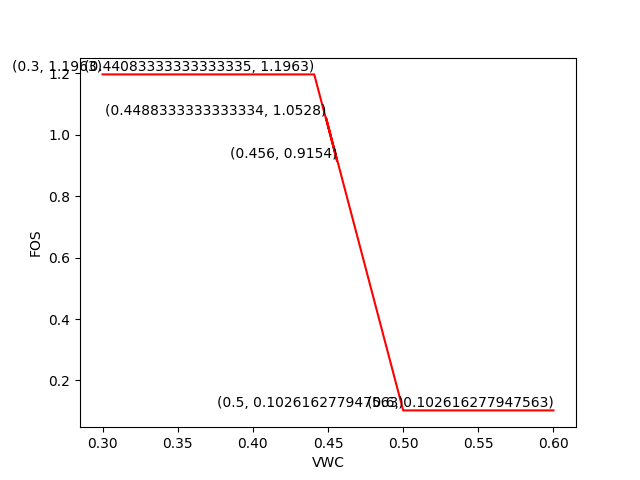
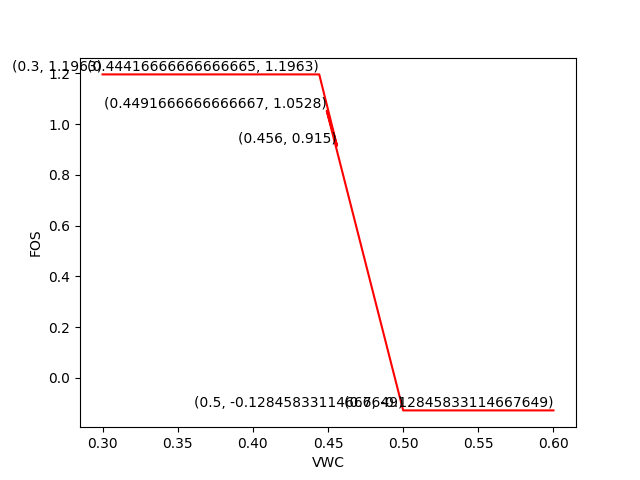
sadgfsa

diff --git a/main_UI.py b/main_UI.py
@@ -79,7 +79,7 @@ class Ui_MainWindow(object):
         self.xslope_dbSpinBox.setMinimumSize(QtCore.QSize(60, 0))
         self.xslope_dbSpinBox.setButtonSymbols(QtWidgets.QAbstractSpinBox.NoButtons)
         self.xslope_dbSpinBox.setDecimals(3)
-        self.xslope_dbSpinBox.setMaximum(9999.0)
+        self.xslope_dbSpinBox.setMaximum(9999999.0)
         self.xslope_dbSpinBox.setObjectName("xslope_dbSpinBox")
         self.horizontalLayout.addWidget(self.xslope_dbSpinBox)
         self.label_3 = QtWidgets.QLabel(self.groupBox)
@@ -91,7 +91,7 @@ class Ui_MainWindow(object):
         self.yslope_dbSpinBox.setMinimumSize(QtCore.QSize(60, 0))
         self.yslope_dbSpinBox.setButtonSymbols(QtWidgets.QAbstractSpinBox.NoButtons)
         self.yslope_dbSpinBox.setDecimals(3)
-        self.yslope_dbSpinBox.setMaximum(9999.0)
+        self.yslope_dbSpinBox.setMaximum(9999999.0)
         self.yslope_dbSpinBox.setSingleStep(0.0001)
         self.yslope_dbSpinBox.setProperty("value", 0.0)
         self.yslope_dbSpinBox.setObjectName("yslope_dbSpinBox")
@@ -111,7 +111,7 @@ class Ui_MainWindow(object):
         self.xsensor_dbSpinbox.setContextMenuPolicy(QtCore.Qt.DefaultContextMenu)
         self.xsensor_dbSpinbox.setButtonSymbols(QtWidgets.QAbstractSpinBox.NoButtons)
         self.xsensor_dbSpinbox.setDecimals(3)
-        self.xsensor_dbSpinbox.setMaximum(9999.0)
+        self.xsensor_dbSpinbox.setMaximum(9999999.0)
         self.xsensor_dbSpinbox.setObjectName("xsensor_dbSpinbox")
         self.horizontalLayout_12.addWidget(self.xsensor_dbSpinbox)
         self.label_10 = QtWidgets.QLabel(self.groupBox)
@@ -122,7 +122,7 @@ class Ui_MainWindow(object):
         self.ysensor_dbSpinBox = QtWidgets.QDoubleSpinBox(self.groupBox)
         self.ysensor_dbSpinBox.setButtonSymbols(QtWidgets.QAbstractSpinBox.NoButtons)
         self.ysensor_dbSpinBox.setDecimals(3)
-        self.ysensor_dbSpinBox.setMaximum(9999.0)
+        self.ysensor_dbSpinBox.setMaximum(9999999.0)
         self.ysensor_dbSpinBox.setObjectName("ysensor_dbSpinBox")
         self.horizontalLayout_12.addWidget(self.ysensor_dbSpinBox)
         self.label_12 = QtWidgets.QLabel(self.groupBox)
@@ -180,9 +180,9 @@ class Ui_MainWindow(object):
         self.horizontalLayout_14.addWidget(self.label_16)
         spacerItem7 = QtWidgets.QSpacerItem(20, 20, QtWidgets.QSizePolicy.Fixed, QtWidgets.QSizePolicy.Minimum)
         self.horizontalLayout_14.addItem(spacerItem7)
-        self.label_17 = QtWidgets.QLabel(self.groupBox)
-        self.label_17.setObjectName("label_17")
-        self.horizontalLayout_14.addWidget(self.label_17)
+        self.fosResult_label = QtWidgets.QLabel(self.groupBox)
+        self.fosResult_label.setObjectName("fosResult_label")
+        self.horizontalLayout_14.addWidget(self.fosResult_label)
         spacerItem8 = QtWidgets.QSpacerItem(40, 20, QtWidgets.QSizePolicy.Expanding, QtWidgets.QSizePolicy.Minimum)
         self.horizontalLayout_14.addItem(spacerItem8)
         self.find_point_Button = QtWidgets.QPushButton(self.groupBox)
@@ -255,10 +255,10 @@ class Ui_MainWindow(object):
         self.horizontalLayout_13.addWidget(self.label_14)
         spacerItem15 = QtWidgets.QSpacerItem(20, 20, QtWidgets.QSizePolicy.Fixed, QtWidgets.QSizePolicy.Minimum)
         self.horizontalLayout_13.addItem(spacerItem15)
-        self.label_15 = QtWidgets.QLabel(self.groupBox_3)
-        self.label_15.setMouseTracking(True)
-        self.label_15.setObjectName("label_15")
-        self.horizontalLayout_13.addWidget(self.label_15)
+        self.vwcResult_label = QtWidgets.QLabel(self.groupBox_3)
+        self.vwcResult_label.setMouseTracking(True)
+        self.vwcResult_label.setObjectName("vwcResult_label")
+        self.horizontalLayout_13.addWidget(self.vwcResult_label)
         spacerItem16 = QtWidgets.QSpacerItem(40, 20, QtWidgets.QSizePolicy.Expanding, QtWidgets.QSizePolicy.Minimum)
         self.horizontalLayout_13.addItem(spacerItem16)
         self.verticalLayout_3.addLayout(self.horizontalLayout_13)
@@ -307,7 +307,7 @@ class Ui_MainWindow(object):
         self.calculate_Button.setText(_translate("MainWindow", "Calculate"))
         self.label_2.setText(_translate("MainWindow", "Moisture Content from Sensor "))
         self.label_16.setText(_translate("MainWindow", "FOS value"))
-        self.label_17.setText(_translate("MainWindow", "<html><head/><body><p align=\"center\"><span style=\" font-weight:600; color:#0000ff;\">0.00</span></p></body></html>"))
+        self.fosResult_label.setText(_translate("MainWindow", "<html><head/><body><p align=\"center\"><span style=\" font-weight:600; color:#0000ff;\">0.00</span></p></body></html>"))
         self.find_point_Button.setText(_translate("MainWindow", "Find FOS"))
         self.groupBox_3.setTitle(_translate("MainWindow", "Output"))
         self.label_9.setText(_translate("MainWindow", "Gradient (m)"))
@@ -317,7 +317,7 @@ class Ui_MainWindow(object):
         self.label_13.setText(_translate("MainWindow", "<html><head/><body><p>R<span style=\" vertical-align:super;\">2</span></p></body></html>"))
         self.r2Result_label.setText(_translate("MainWindow", "<html><head/><body><p align=\"center\"><span style=\" font-weight:600; color:#0000ff;\">0.00</span></p></body></html>"))
         self.label_14.setText(_translate("MainWindow", "VWC (%)"))
-        self.label_15.setText(_translate("MainWindow", "<html><head/><body><p align=\"center\"><span style=\" font-weight:600; color:#0000ff;\">0.00</span></p></body></html>"))
+        self.vwcResult_label.setText(_translate("MainWindow", "<html><head/><body><p align=\"center\"><span style=\" font-weight:600; color:#0000ff;\">0.00</span></p></body></html>"))
         self.groupBox_2.setTitle(_translate("MainWindow", "Graph"))
         self.graphResult_label.setText(_translate("MainWindow", "result graph here"))
 

diff --git a/read_asc.py b/read_asc.py
@@ -12,15 +12,15 @@ def read_asc_to_dataframe(asc_file):
     df.columns = range(len(df.columns))  # Assign column names as numbers
     return df
 
-def gorun():
+def gorun(ref_pt_x, ref_pt_y, sensor_svy_x, sensor_svy_y):
 
     # how to convert lat & lng, need to find out
-    ref_pt_x = 24483.000000  # [for user input] coordinates of reference left corner pixel
-    ref_pt_y = 28694.204819
+    # ref_pt_x = 24483.000000  # [for user input] coordinates of reference left corner pixel
+    # ref_pt_y = 28694.204819
     nrow = 3175              # [for user input] total number of rows in the FOS ascii file
                             # TODO: this should depend on the .asc file !
 
-    sensor_svy_x,sensor_svy_y = 27060.6, 29743.263 # [for user input] svy21 coordinates of point of interest
+    # sensor_svy_x,sensor_svy_y = 27060.6, 29743.263 # [for user input] svy21 coordinates of point of interest
 
     # Step 1: Extracting x and y values from ascii files
     column_svy = math.ceil(sensor_svy_x - ref_pt_x)
@@ -80,7 +80,6 @@ def gorun():
     # TODO: verify formulae below (check any assumptions)
     m_top = ( (x_1hr_mean - X_avg)*(extracted_y[0] - Y_avg) + (x_24hr_mean - X_avg)*(extracted_y[1] - Y_avg) + (x_48hr_mean - X_avg)*(extracted_y[2] - Y_avg) )
     m_btm = ( (x_1hr_mean - X_avg)**2 + (x_24hr_mean - X_avg)**2 + (x_48hr_mean - X_avg)**2)
-    # 48hr file corrupted! skip for now
 
     m = m_top/m_btm
 
@@ -97,14 +96,13 @@ def gorun():
 
     # Step 6: Plotting the regression line
     x = [0.3, x_1hr_mean,x_24hr_mean,x_48hr_mean, 0.5,  0.6]
-    print("two values", m*0.46+q, m*0.25+q)
-
     midpoint_y = m*0.5+q
     y = [extracted_y[0]] + extracted_y + [midpoint_y]*2
 
+    r = np.corrcoef(x[1:4], y[1:4])[0, 1]
 
     # plotting
-    from matplotlib import pyplot as plt
+    # from matplotlib import pyplot as plt
     plt.plot(x,y, color = 'red', label = "Z line")
     # plt.plot(X_avg, Y_avg)
     # plt.scatter(x, y, color='blue', label='Data Points')
@@ -122,6 +120,8 @@ def gorun():
     plt.cla()
     # plt.show()
 
+
+    return m, q, x_1hr_mean, x_48hr_mean, extracted_y[0], midpoint_y, r**2, X_avg
 
 
 

diff --git a/AMS.py b/AMS.py
@@ -14,6 +14,7 @@ class AMS(MainWindow):
         # connect buttons
         self.uiMain.calculate_Button.clicked.connect(self.calculateButton_clicked)
         self.uiMain.openFolder_Button.clicked.connect(self.openFolderButton_clicked)
+        self.uiMain.find_point_Button.clicked.connect(self.findFOSButton_clicked)
 
         self.show()
 
@@ -21,7 +22,25 @@ class AMS(MainWindow):
 
     def calculateButton_clicked(self):
 
-        gorun()
+        #get inputs:
+        zone = self.uiMain.zoneNo_spinBox.value()
+        slopex = self.uiMain.xslope_dbSpinBox.value()
+        slopey = self.uiMain.yslope_dbSpinBox.value()
+        sensorx = self.uiMain.xsensor_dbSpinbox.value()
+        sensory = self.uiMain.ysensor_dbSpinBox.value()
+        
+        # Running
+        self.m, self.q , self.x1, self.x2, self.y1, self.y2, rsquared, vwc = gorun(slopex, slopey, sensorx, sensory)
+
+
+        # Outputs
+        self.uiMain.gradientResult_label.setText(str(self.m))
+        self.uiMain.interceptResult_label.setText(str(self.q))
+        self.uiMain.r2Result_label.setText(str(rsquared))
+        self.uiMain.vwcResult_label.setText(str(vwc))
+        
+
+        
         #TODO Make picture size better idk help plsssssss
         self.uiMain.graphResult_label.setPixmap(QPixmap("Z_plot.png").scaled(1200, 375, QtCore.Qt.KeepAspectRatio, QtCore.Qt.SmoothTransformation))
 
@@ -35,6 +54,21 @@ class AMS(MainWindow):
             # TODO: check if required files exist
         else:
             self.uiMain.statusbar.showMessage("Open folder failed/cancelled.")
+
+    def findFOSButton_clicked(self):
+        #Laze change name fa
+        print(self.x1, self.x2, self.y1, self.y2)
+        x_value = self.uiMain.doubleSpinBox.value()
+        if x_value <= self.x1:
+            y_value = self.y1
+        elif x_value >= 0.5:
+            y_value = self.y2
+        else:
+            y_value = self.m * x_value + self.q
+
+        self.uiMain.fosResult_label.setText(str(y_value))
+
+        pass
 
 
 if __name__ == "__main__":

diff --git a/R-Value.py b/R-Value.py
@@ -103,6 +103,8 @@ y = extracted_y
 #Calculating correlation factor
 r = np.corrcoef(x, y)[0, 1]
 
+bestfit_slope, bestfit_intercept = np.polyfit(x, y, 1)
+
 plt.scatter(x, y, color='blue', label='Data Points')
 plt.plot(x, np.poly1d(np.polyfit(x, y, 1))(x), color='red', label='Regression Line')
 
@@ -126,3 +128,5 @@ print('q is', q)
 print('')
 print('FS(real-time) =', m, '* VWC(real-time) +', q)
 print("Correlation coefficient, r:", r)
+
+print("m vs bestfit", m, bestfit_slope)
